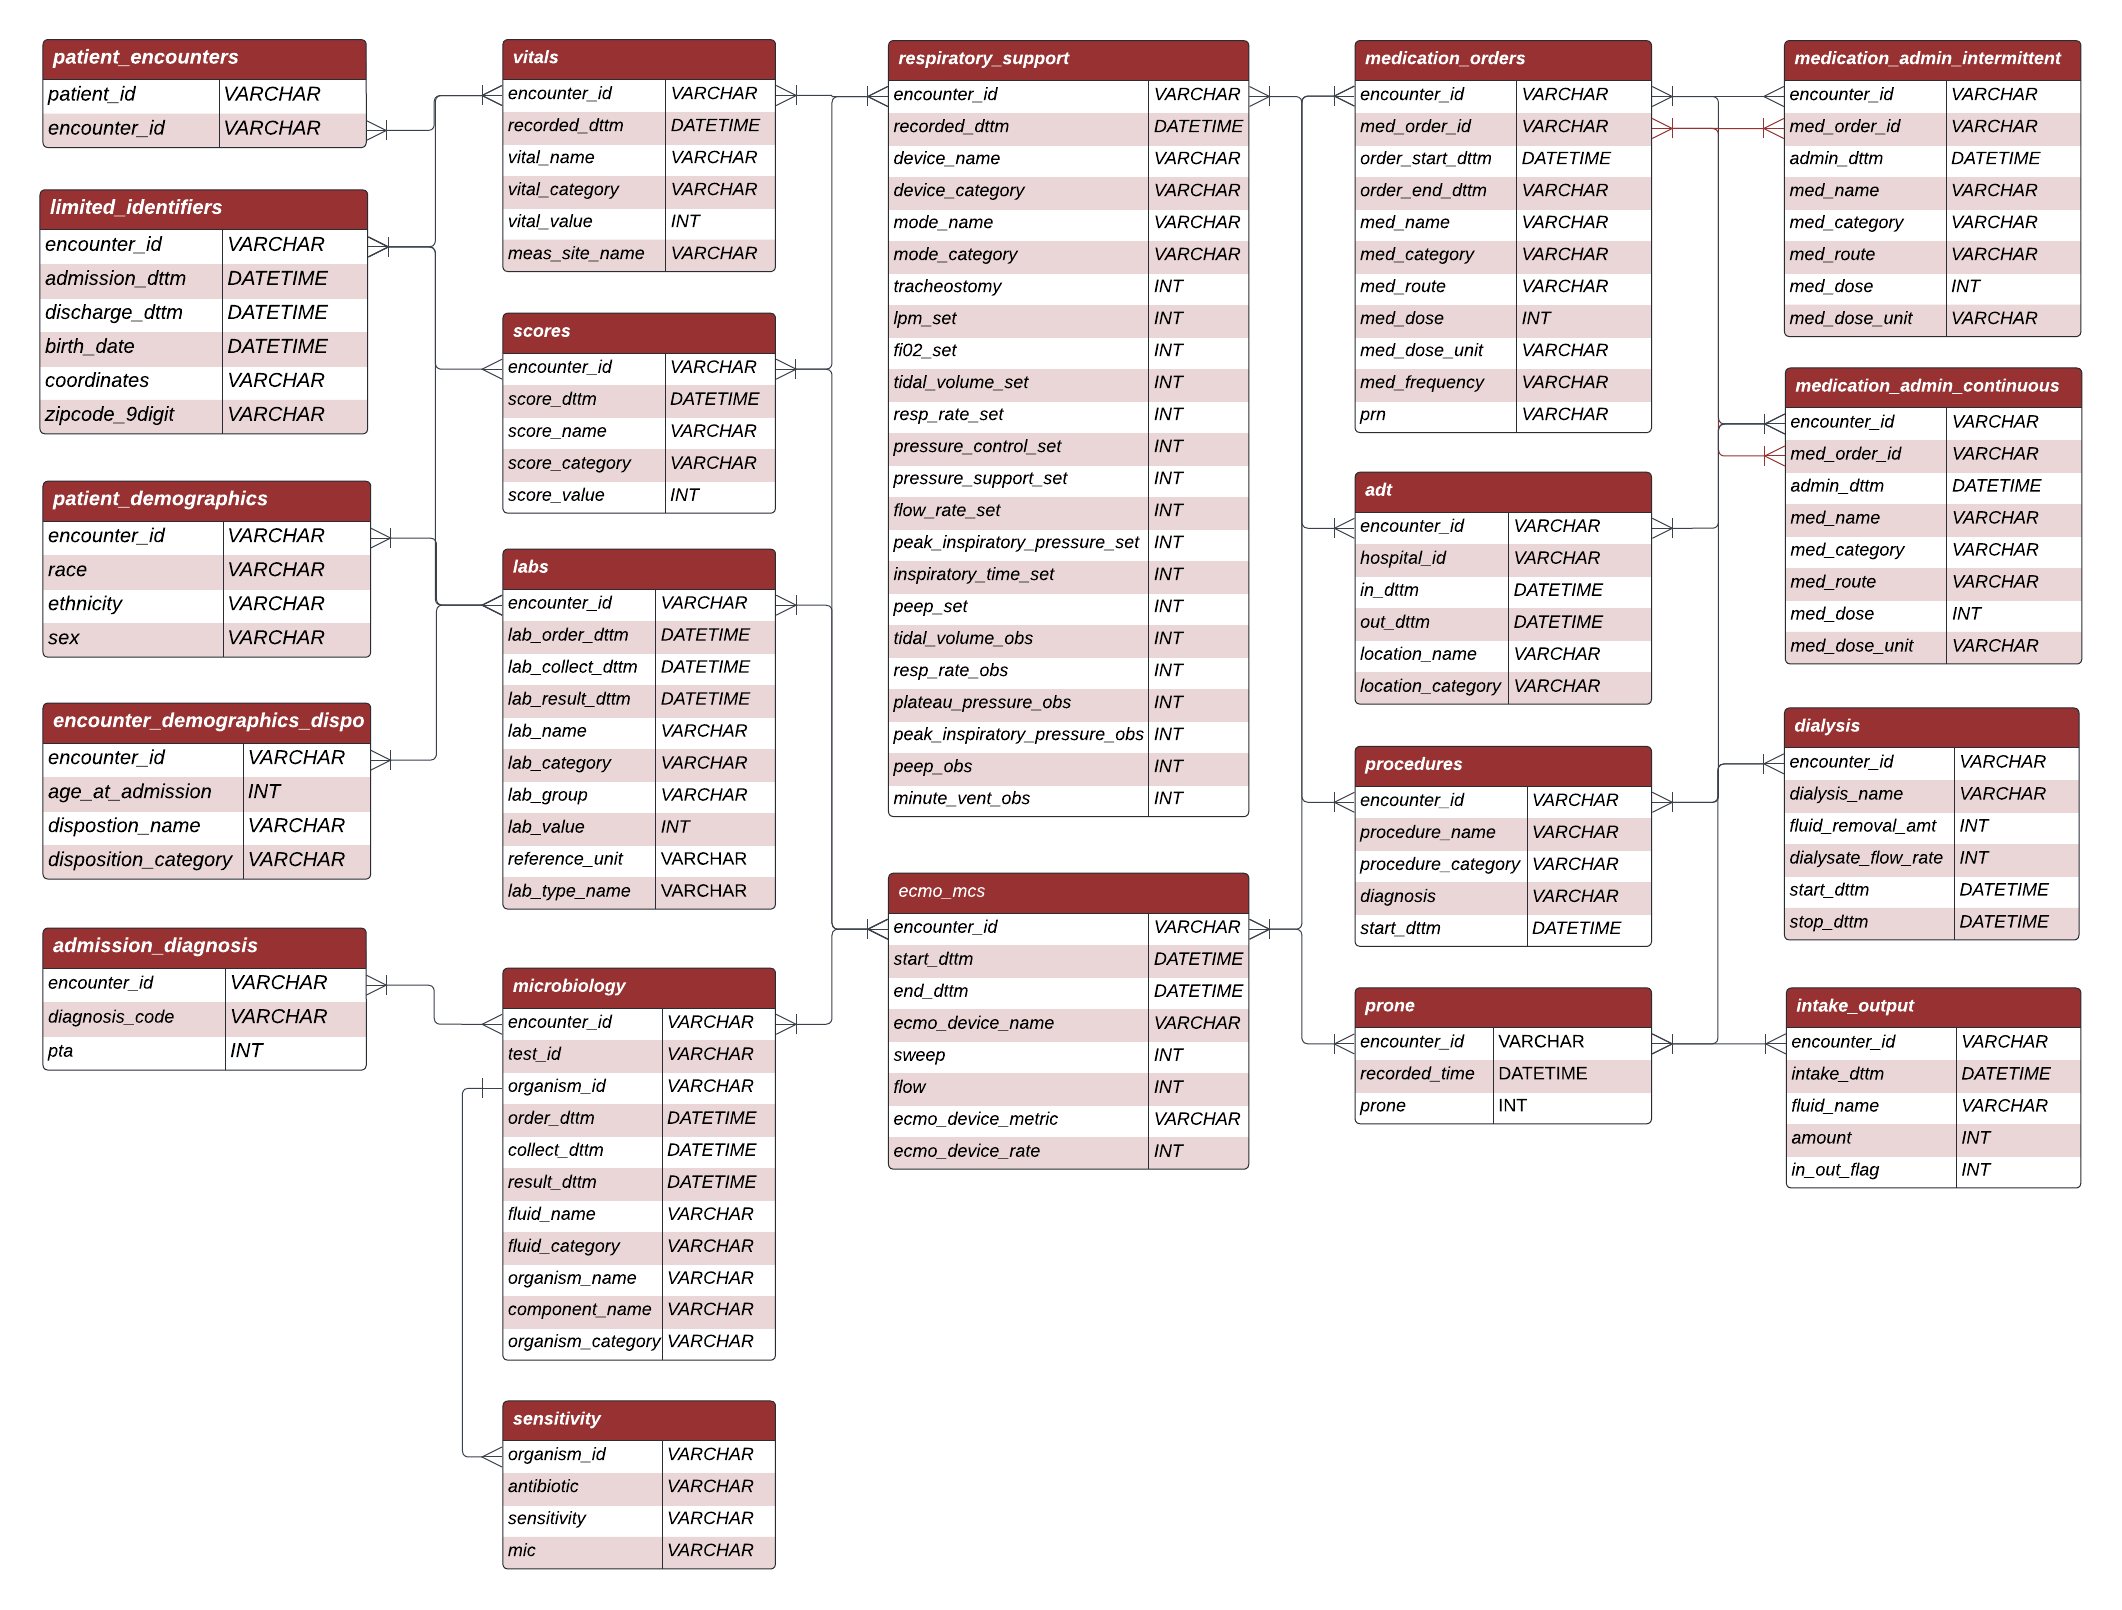
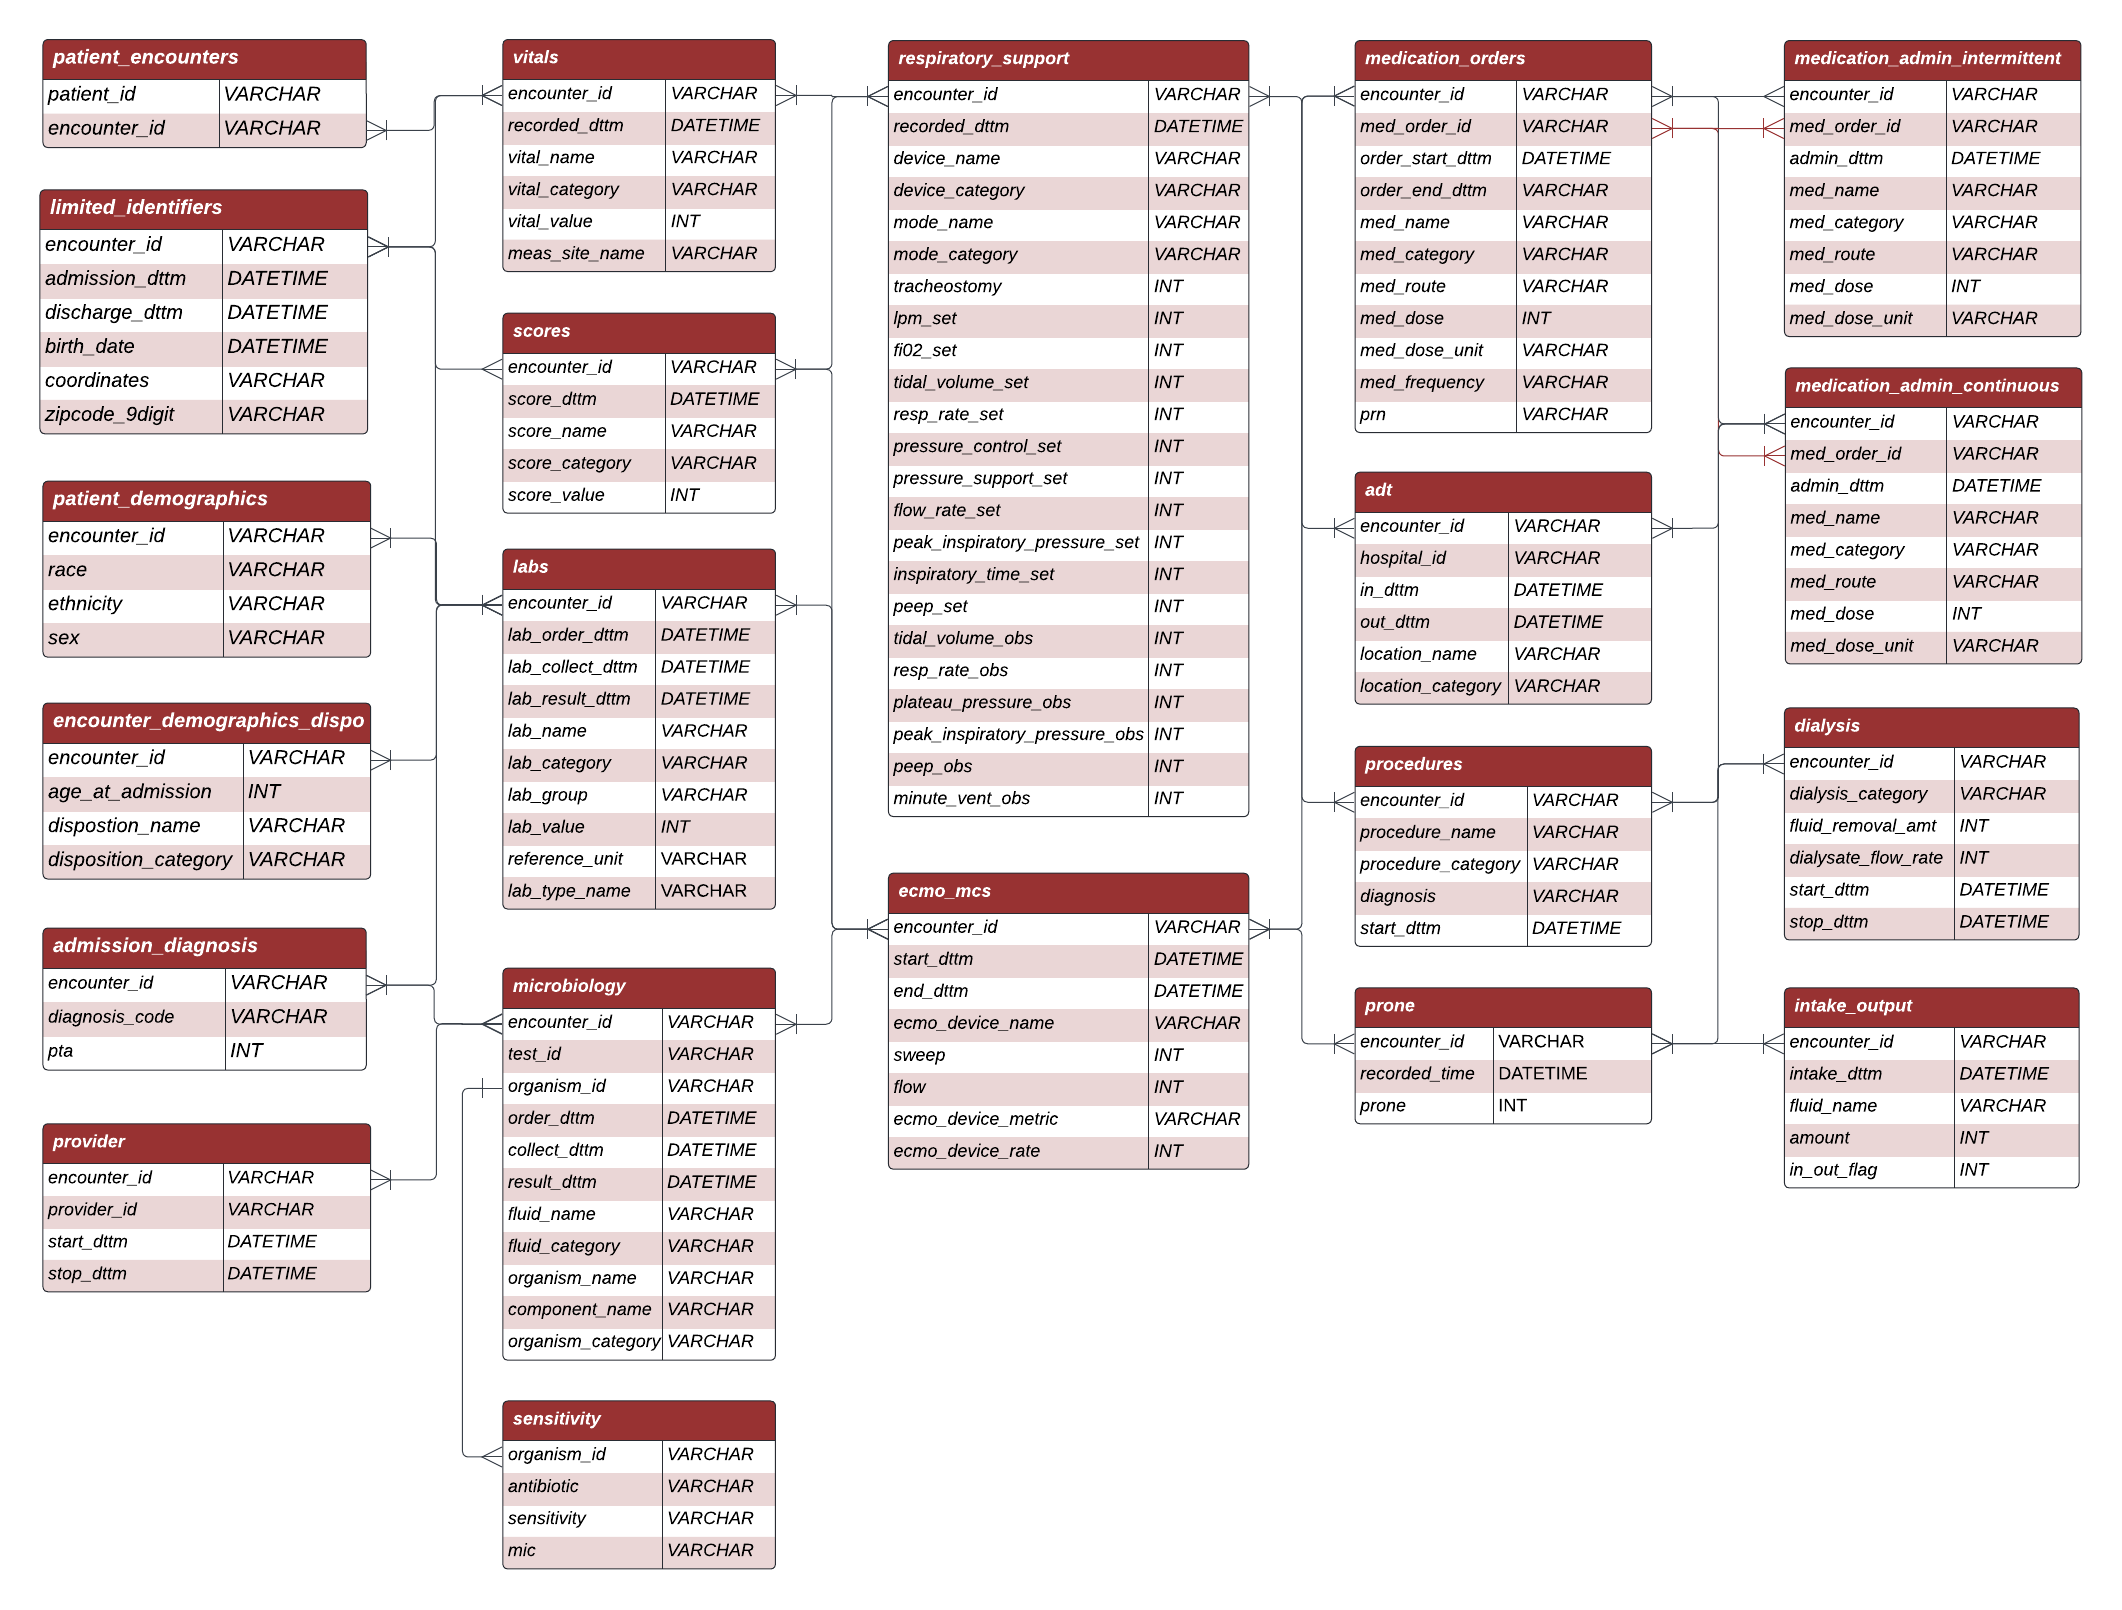
Added provider table to ERD

diff --git a/docs/data-dictionary.html b/docs/data-dictionary.html
@@ -137,6 +137,7 @@ ul.task-list li input[type="checkbox"] {
   <li><a href="#respiratory_support" id="toc-respiratory_support" class="nav-link" data-scroll-target="#respiratory_support">Respiratory_support</a></li>
   <li><a href="#medication_admin_continuous" id="toc-medication_admin_continuous" class="nav-link" data-scroll-target="#medication_admin_continuous">Medication_admin_continuous</a></li>
   <li><a href="#dialysis" id="toc-dialysis" class="nav-link" data-scroll-target="#dialysis">Dialysis</a></li>
+  <li><a href="#provider" id="toc-provider" class="nav-link" data-scroll-target="#provider">Provider</a></li>
   </ul>
 </nav>
     </div>
@@ -865,9 +866,9 @@ ul.task-list li input[type="checkbox"] {
 <td>2022-09-30 17:50:00</td>
 <td>2022-09-30 18:05:00</td>
 <td>2022-09-30 18:53:00</td>
+<td></td>
+<td>CBC</td>
 <td>basophil</td>
-<td>CBC</td>
-<td>CBC</td>
 <td>1</td>
 <td>%</td>
 <td>standard</td>
@@ -877,9 +878,9 @@ ul.task-list li input[type="checkbox"] {
 <td>2022-09-30 17:50:00</td>
 <td>2022-09-30 18:05:00</td>
 <td>2022-09-30 18:53:00</td>
+<td></td>
+<td>CBC</td>
 <td>monocyte</td>
-<td>CBC</td>
-<td>CBC</td>
 <td>7</td>
 <td>%</td>
 <td>standard</td>
@@ -889,9 +890,9 @@ ul.task-list li input[type="checkbox"] {
 <td>2022-09-30 17:50:00</td>
 <td>2022-09-30 18:05:00</td>
 <td>2022-09-30 18:53:00</td>
+<td></td>
+<td>CBC</td>
 <td>neutrophil</td>
-<td>CBC</td>
-<td>CBC</td>
 <td>47</td>
 <td>%</td>
 <td>standard</td>
@@ -901,9 +902,9 @@ ul.task-list li input[type="checkbox"] {
 <td>2022-09-30 17:50:00</td>
 <td>2022-09-30 18:05:00</td>
 <td>2022-09-30 18:53:00</td>
+<td></td>
+<td>CBC</td>
 <td>lymphocyte</td>
-<td>CBC</td>
-<td>CBC</td>
 <td>44</td>
 <td>%</td>
 <td>standard</td>
@@ -913,9 +914,9 @@ ul.task-list li input[type="checkbox"] {
 <td>2022-09-30 17:50:00</td>
 <td>2022-09-30 18:05:00</td>
 <td>2022-09-30 18:53:00</td>
+<td></td>
+<td>CBC</td>
 <td>eosinophils</td>
-<td>CBC</td>
-<td>CBC</td>
 <td>1</td>
 <td>%</td>
 <td>standard</td>
@@ -925,9 +926,9 @@ ul.task-list li input[type="checkbox"] {
 <td>2022-09-30 17:50:00</td>
 <td>2022-09-30 18:05:00</td>
 <td>2022-09-30 18:53:00</td>
+<td></td>
+<td>LFT</td>
 <td>bilirubin_unconjugated</td>
-<td>LFT</td>
-<td>LFT</td>
 <td>0.9</td>
 <td>mg/dL</td>
 <td>standard</td>
@@ -1625,6 +1626,45 @@ ul.task-list li input[type="checkbox"] {
 </tbody>
 </table>
 </div>
+</section>
+<section id="provider" class="level2">
+<h2 class="anchored" data-anchor-id="provider">Provider</h2>
+<table class="table">
+<colgroup>
+<col style="width: 53%">
+<col style="width: 22%">
+<col style="width: 24%">
+</colgroup>
+<thead>
+<tr class="header">
+<th>Variable Name</th>
+<th>Data Type</th>
+<th>Definition</th>
+</tr>
+</thead>
+<tbody>
+<tr class="odd">
+<td>encounter_id</td>
+<td>VARCHAR</td>
+<td>ID variable for each patient encounter</td>
+</tr>
+<tr class="even">
+<td>provider_id</td>
+<td>VARCHAR</td>
+<td>ID variable for each primary attending</td>
+</tr>
+<tr class="odd">
+<td>start_dttm</td>
+<td>DATETIME</td>
+<td>Start date and time of the provider (in the format %Y-%m-%d %H:%M:%S)</td>
+</tr>
+<tr class="even">
+<td>stop_dttm</td>
+<td>DATETIME</td>
+<td>Stop date and time of the provider (in the format %Y-%m-%d %H:%M:%S)</td>
+</tr>
+</tbody>
+</table>
 
 
 </section>
